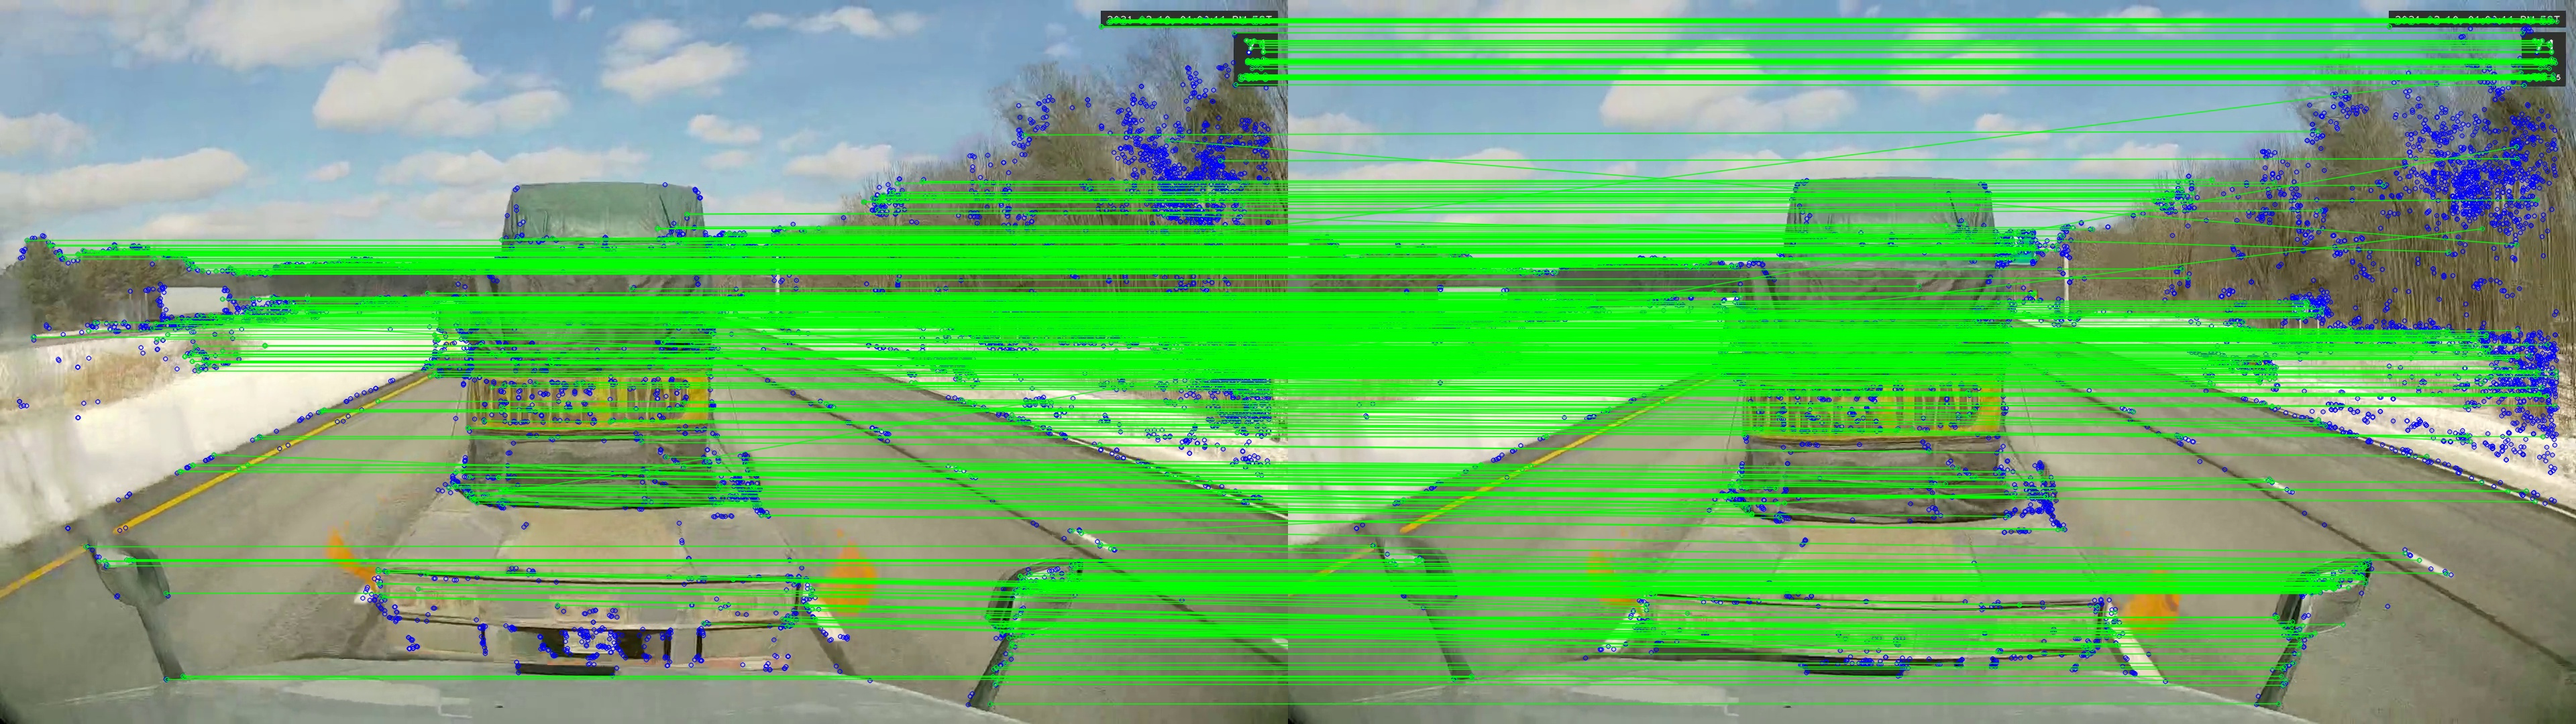
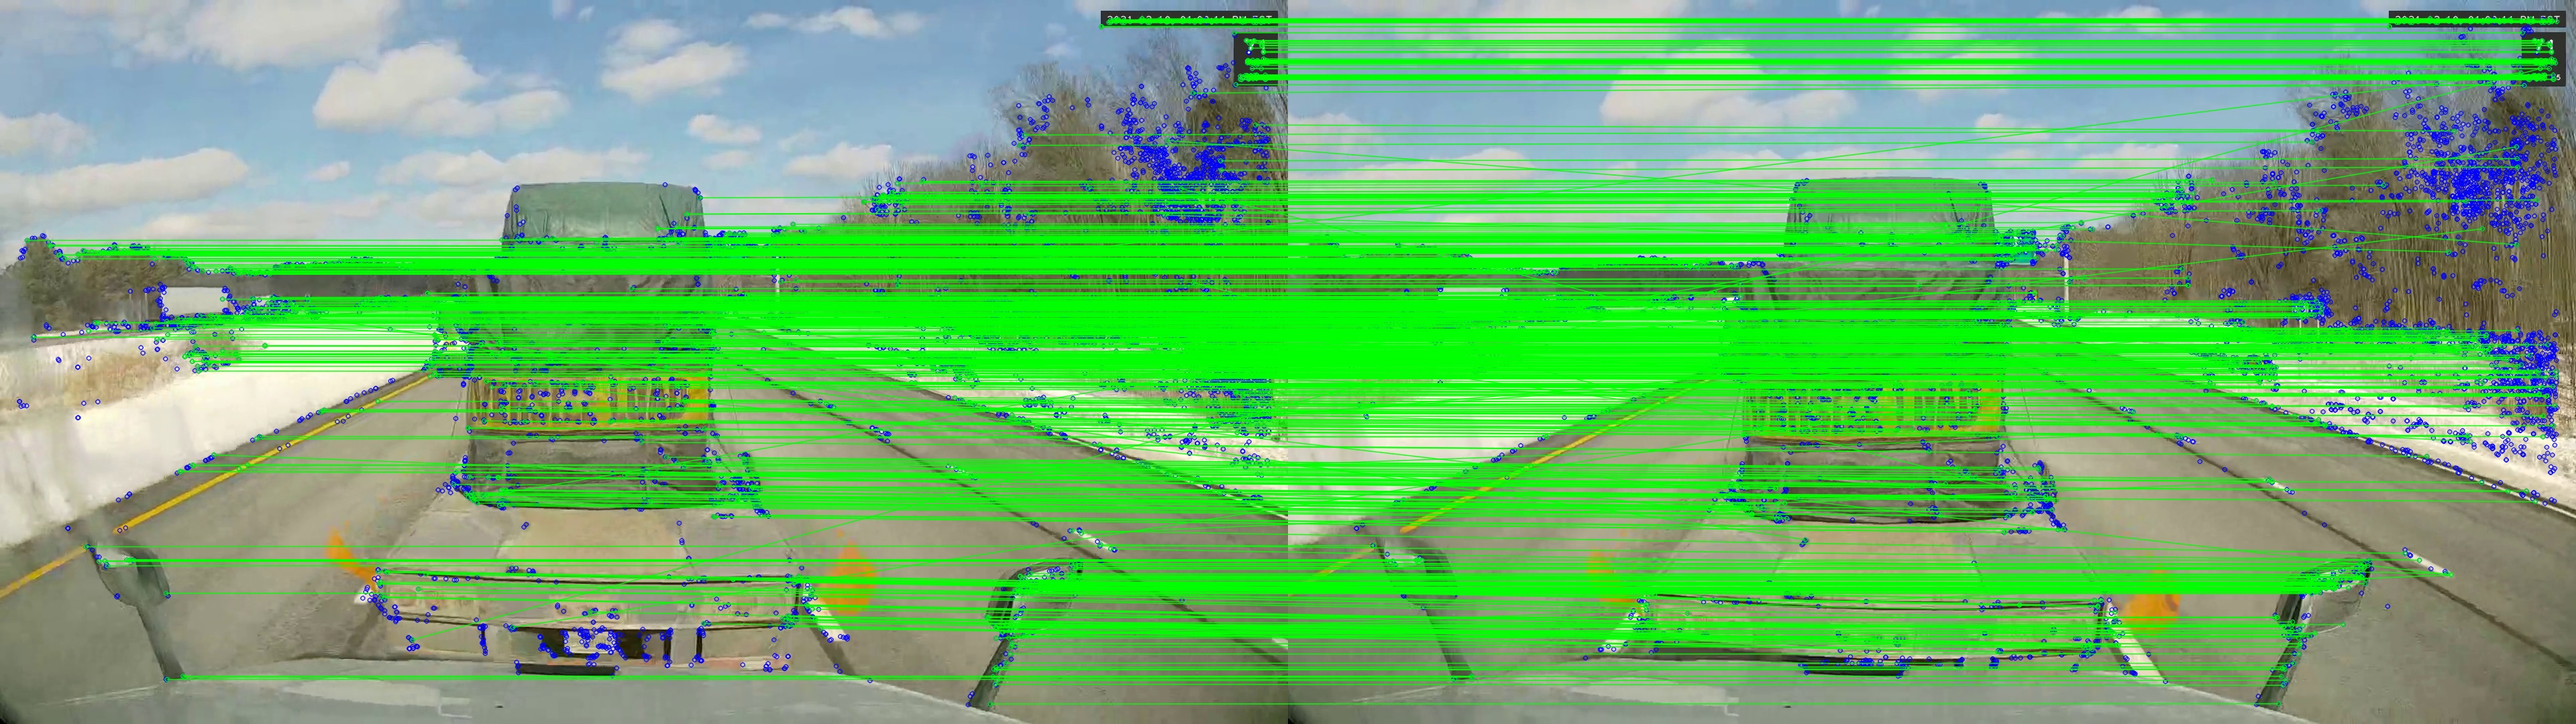
feature extraction and tracking with kalman

diff --git a/fcw.py b/fcw.py
@@ -1,10 +1,13 @@
 import argparse
 from ast import parse
+from collections import deque
 
 import cv2
 import detectron2
+from detectron2.engine.hooks import PeriodicCheckpointer
 from detector import MRCNN_detector
 from tracker import Tracker
+from feature import detect_feature, desc_feature, match_descriptors
 from detectron2.data import MetadataCatalog
 from detectron2.utils.visualizer import Visualizer
 
@@ -13,27 +16,64 @@ def main(video_path, detector, tracker):
     # get frame per second of the current video
     fps = cap.get(cv2.CAP_PROP_FPS)
     
-    # idx = 0
-    # while(cap.isOpened()):
-    #     ret, frame = cap.read()
-    #     print(frame.shape)
-    #     if frame is None:
-    #         break
-         
-    #     cv2.imwrite(f"./content/images/image{idx}.jpg", frame)
-    #     idx += 1
-    #     outputs = detector.inference(frame)
-    #     print(outputs)
-    image = cv2.imread('./content/images/image140.jpg')
-    output = detector.inference(image)
-    # v = Visualizer(image[:, :, ::-1], MetadataCatalog.get(detector.cfg.DATASETS.TRAIN[0]), scale=1.2)
-    # out = v.draw_instance_predictions(output["instances"])
+    idx = 0
+    dataDQ = deque(maxlen=2)
+    while(cap.isOpened()):
+        idx += 1
+        print(f"====================Read on frame {idx}=========================")
+        ret, frame = cap.read()        
+        if frame is None:
+            break
+        # run the detecion model on the frame
+        try: 
+            outputs = detector.inference(frame)
+            print(f"Number of detected vehicle {outputs.shape[0]}")
+            # update the sort-based tracker 
+            trks = tracker.update(outputs)      
+            
+            # feature extraction and description
+            gray = cv2.cvtColor(frame, cv2.COLOR_BGR2GRAY)
+            keypoints = detect_feature(gray, "BRISK")
+            kp, des = desc_feature(keypoints, gray, "BRIEF")
+
+            data_point = {
+                'idx': idx, 
+                'frame': frame, 
+                'outputs': outputs,
+                "tracks" : trks,
+                'keypoints': kp,
+                'descriptor': des,
+            }
+
+            dataDQ.append(data_point)
+
+            
+
+
+            for d in trks:
+                print(d)
+            
+
+        except Exception as e:
+            print("current frame skipped for ttc", e)
+            continue
+
+
+        
+
+
+    # v = Visualizer(frame[:, :, ::-1], MetadataCatalog.get(detector.cfg.DATASETS.TRAIN[0]), scale=1.2)
+    # out = v.draw_instance_predictions(predictions)
+    # cv2.imwrite(f"/workspace/src/content/result/res{idx}.jpg", out.get_image()[:, :, ::-1])
+    # image = cv2.imread('./content/images/image140.jpg')
+    # output = detector.inference(image)
+
     # cv2.imwrite("./res.jpg", out.get_image()[:, :, ::-1])
 
 def parse_args():
     """"Parse input arguments"""
     parser = argparse.ArgumentParser(description="FCW argument")
-    parser.add_argument("--video_path", type=str, default='./content/processed-video-forward-1612980546861.mp4')
+    parser.add_argument("--video_path", type=str, default='/workspace/src/content/processed-video-forward-1612980546861.mp4')
     parser.add_argument("--model_name", type=str, default="COCO-InstanceSegmentation/mask_rcnn_R_50_FPN_3x.yaml")
     parser.add_argument("--device", type=str, default='cuda')
     parser.add_argument("--max_age", type=int, default=1, help="Maximum number of frames to keep alive a track without associated detection")

diff --git a/feature.py b/feature.py
@@ -56,17 +56,17 @@ def match_descriptors(des1, des2, matcher_type):
     if matcher_type == "BF":
         matcher = cv2.BFMatcher()
     elif matcher_type == "FLANN":
-        FLANN_INDEX_KDTREE = 1
-        index_params = dict(algorithm=FLANN_INDEX_KDTREE, trees=5)
-        search_params = dict(checks=50)
-        matcher = cv2.FlannBasedMatcher(index_params, search_params)
+        matcher = cv2.DescriptorMatcher_create(cv2.DescriptorMatcher_FLANNBASED)
+        # type conversion for FLANN matching calcu
+        des1 = np.float32(des1) 
+        des2 = np.float32(des2)
     
     matches = matcher.knnMatch(des1, des2, k=2)
     return matches
 
 
 if __name__ == "__main__":
-    image1 = cv2.imread('./content/images/image140.jpg')
+    image1 = cv2.imread('/workspace/src/content/images/image140.jpg')
     gray1 = cv2.cvtColor(image1, cv2.COLOR_BGR2GRAY)
     keypoints1 = detect_feature(gray1, "BRISK")
     # outImage = np.copy(image)
@@ -74,7 +74,7 @@ if __name__ == "__main__":
     #     0, 255, 0), flags=cv2.DRAW_MATCHES_FLAGS_DRAW_RICH_KEYPOINTS)
     kp1, des1 = desc_feature(keypoints1, image1, "BRIEF")
 
-    image2 = cv2.imread('./content/images/image141.jpg')
+    image2 = cv2.imread('/workspace/src/content/images/image141.jpg')
     gray2 = cv2.cvtColor(image2, cv2.COLOR_BGR2GRAY)
     keypoints2 = detect_feature(gray2, "BRISK")
     # outImage = np.copy(image)
@@ -87,7 +87,7 @@ if __name__ == "__main__":
     # cv2.drawKeypoints(image, kp, outImage2, color=(0, 255, 0),
     #                   flags=cv2.DRAW_MATCHES_FLAGS_DRAW_RICH_KEYPOINTS)
     # cv2.imwrite("./out2.png", outImage)
-    matches = match_descriptors(des1, des2, "BF")
+    matches = match_descriptors(des1, des2, "FLANN")
 
     # Need to draw only good matches, so create a mask
     matchesMask = [[0,0] for i in range(len(matches))]

diff --git a/detector.py b/detector.py
@@ -1,11 +1,16 @@
+import cv2
 import numpy as np
-import detectron2
+import torch
+from torchvision.ops import nms
+
 from detectron2 import model_zoo
 from detectron2.engine import DefaultPredictor
 from detectron2.config import get_cfg
 from detectron2.utils.visualizer import Visualizer
 
 from detectron2.utils.logger import setup_logger
+
+from feature import detect_feature
 setup_logger()
 
 
@@ -24,19 +29,30 @@ class MRCNN_detector:
     
     def inference(self, image):
         predictions =  self.predictor(image).get('instances')
-        vechile_types = {3,4,6,7,8}
+        vechile_types = {2,3,5,6,7}
 
         classes = predictions.pred_classes.numpy() if predictions.has("pred_classes") else None
-        if classes is None:
-            return
+        if len(classes) < 1:
+            return np.empty((0, 5))
 
         classes = np.array([True if ele in vechile_types else False for ele in classes])
         boxes = predictions.pred_boxes.tensor.numpy() if predictions.has("pred_boxes") else None
         scores = predictions.scores.numpy() if predictions.has("scores") else None
         boxes, scores = boxes[classes], scores[classes]
+
+        kept_idx = nms(torch.tensor(boxes), torch.tensor(scores), 0.5)
+        boxes, scores = boxes[kept_idx, :], scores[kept_idx]
         
         res = np.zeros((boxes.shape[0], boxes.shape[1]+1))
         res[:,:-1] = boxes
         res[:,-1] = scores
-        
         return res
+
+
+if __name__ == "__main__":
+        detector = MRCNN_detector("COCO-InstanceSegmentation/mask_rcnn_R_50_FPN_3x.yaml", 'cpu')
+        image = cv2.imread('/workspace/src/content/images/image116.jpg')
+
+        print(detector.inference(image))
+
+
